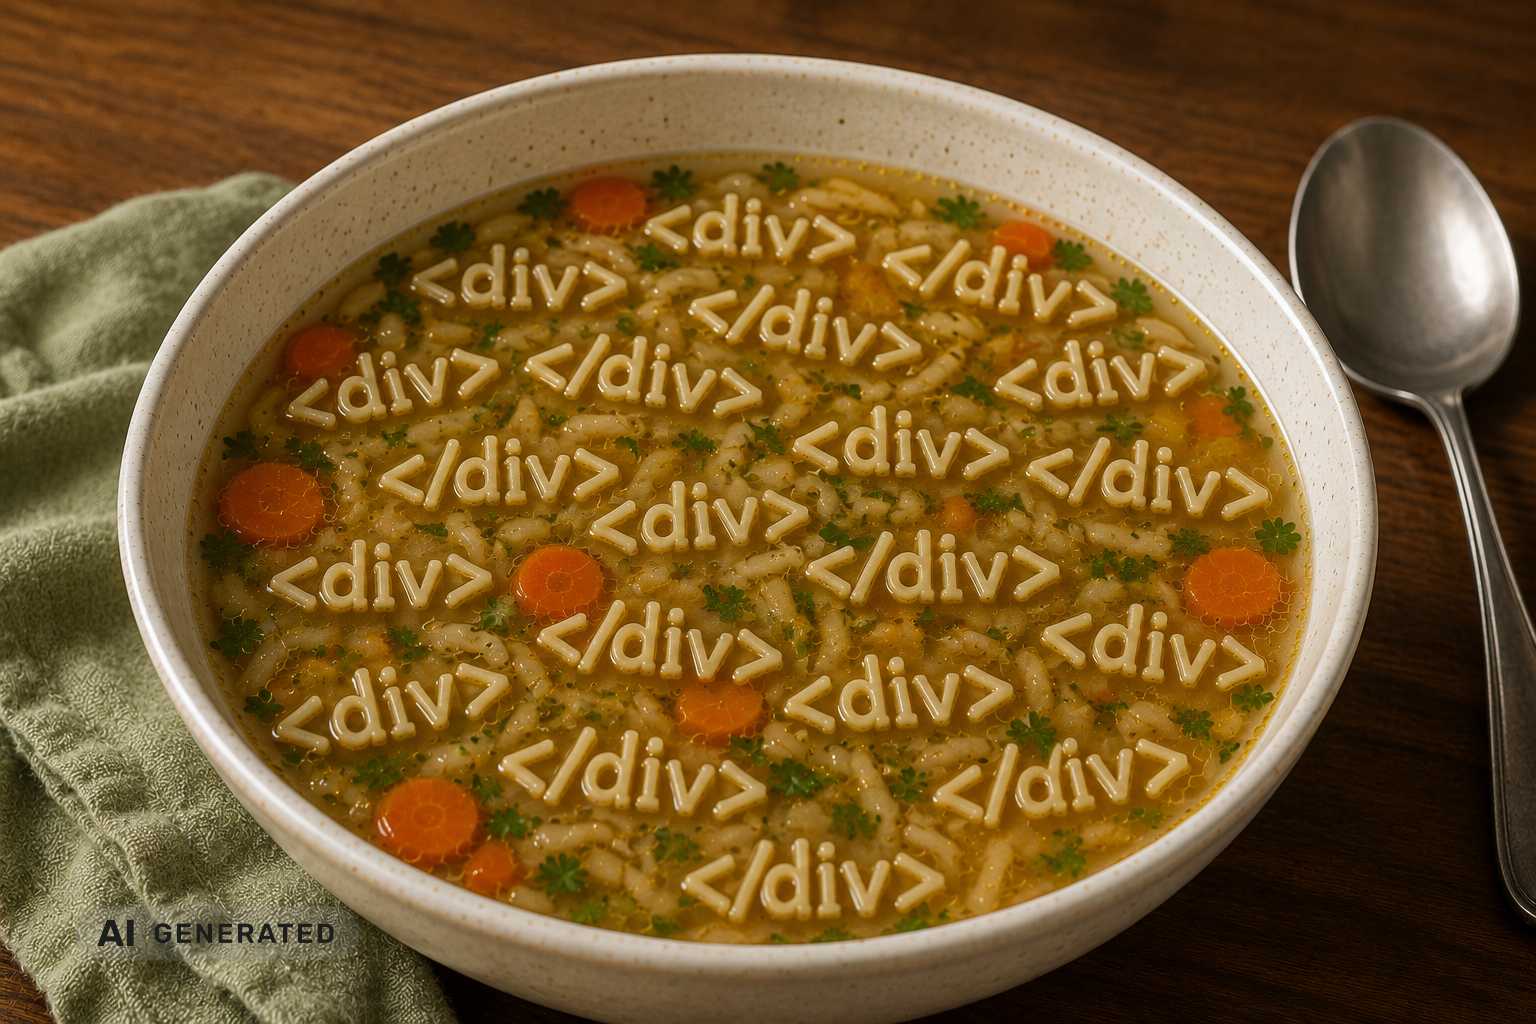
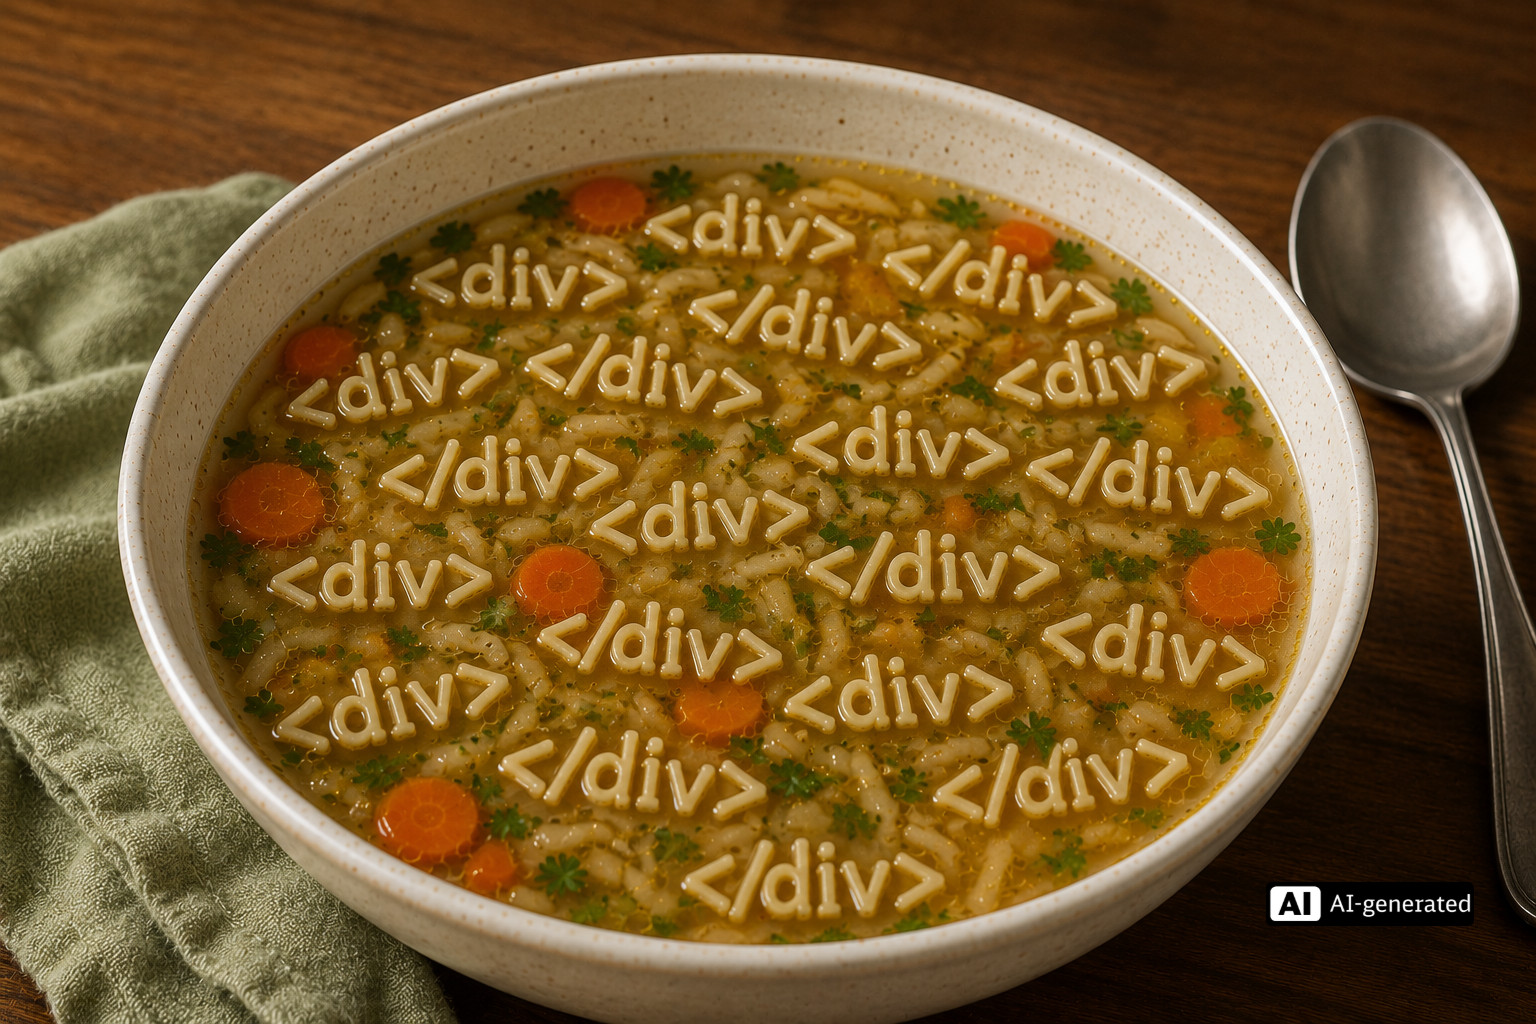
feat(a11y): refine component styling and presentation layout
- Remove decorative ::before pseudo-element from sr-bubble in AriaEcosystemDemo
- Adjust list padding in SpaFocusDemo explanation steps from 16px to 0
- Reposition caption overlay on why-a11y slide from right-8 to right-42
- Increase top margin on common-traps warning box from mt-2 to mt-15
- Add email contact link to outro slide author information
- Adjust spacing below author contact details from mt-4 to mt-8
- Optimize and refresh accessibility diagram images (bridging-a11y, soup_div, structure, structure_landmark)

Changed region(s): [[0.8125, 0.8438, 0.9688, 0.9062], [0.0625, 0.875, 0.2188, 0.9375]]

diff --git a/components/AriaEcosystemDemo.vue b/components/AriaEcosystemDemo.vue
@@ -560,16 +560,6 @@ const step = computed(() => Math.min($clicks.value, 4));
   position: relative;
 }
 
-.sr-bubble::before {
-  content: '';
-  position: absolute;
-  left: -6px;
-  top: 50%;
-  transform: translateY(-50%);
-  border: 5px solid transparent;
-  border-right-color: rgba(249, 115, 22, 0.3);
-}
-
 .sr-text {
   font-size: 0.72rem;
   font-weight: 600;

diff --git a/components/SpaFocusDemo.vue b/components/SpaFocusDemo.vue
@@ -537,7 +537,7 @@ const displayUrl = computed(() => {
 
 .explanation-step ul {
   margin: 6px 0;
-  padding-left: 16px;
+  padding-left: 0;
   font-size: 0.75rem;
   color: var(--k9n-text-secondary, #334155);
   line-height: 1.6;

diff --git a/pages/11-outro.md b/pages/11-outro.md
@@ -53,8 +53,11 @@ class: text-center
   </div>
   <div class="text-left">
     <p class="text-lg font-bold">Danny Koppenhagen</p>
-    <p class="opacity-80">Frontend Architect @ DB Systel GmbH</p>
-    <div class="flex flex-col gap-2 mt-4">
+    <p class="opacity-80">
+      Frontend Architect @ DB Systel GmbH<br>
+      <a href="mailto:Danny.Koppenhagen@deutschebahn.com" class="text-xs pt-5">Danny.Koppenhagen@deutschebahn.com</a>
+    </p>
+    <div class="flex flex-col gap-2 mt-8">
       <a href="https://k9n.dev" target="_blank" class="flex items-center gap-2 !border-none no-underline">
         <carbon-earth /> k9n.dev
       </a>

diff --git a/pages/02-why-a11y.md b/pages/02-why-a11y.md
@@ -89,7 +89,7 @@ layout: default
 
 <div class="absolute right-0 top-0 h-full">
   <img src="/ux_fail.jpeg" alt="Verwirrendes Aufzugpanel in einem Hotel: Zwischen zwei Aufzügen sind die Ruftasten rechts am linken Aufzug montiert – unklar welchen Aufzug sie rufen" class="h-full object-cover rounded-l shadow" />
-  <div class="absolute top-10 right-8 text-md opacity-90 text-white bg-black/80 px-2 py-1 rounded">
+  <div class="absolute top-10 right-42 text-md opacity-90 text-white bg-black/80 px-2 py-1 rounded">
     Wo muss ich drücken? 🤔
   </div>
 </div>

diff --git a/pages/03-common-traps.md b/pages/03-common-traps.md
@@ -93,7 +93,7 @@ layout: default
 
 <v-click>
 
-<div class="mt-2 p-4 bg-yellow-500 bg-opacity-10 rounded">
+<div class="mt-15 p-4 bg-yellow-500 bg-opacity-10 rounded">
 ⚠ Screen Reader können diese Struktur nicht verstehen<br>
 ⚠ Tastatur-Nutzende können nicht navigieren<br>
 ⚠ Suchmaschinen & AI Agents können sie nur schlecht den Inhalt entnehmen
